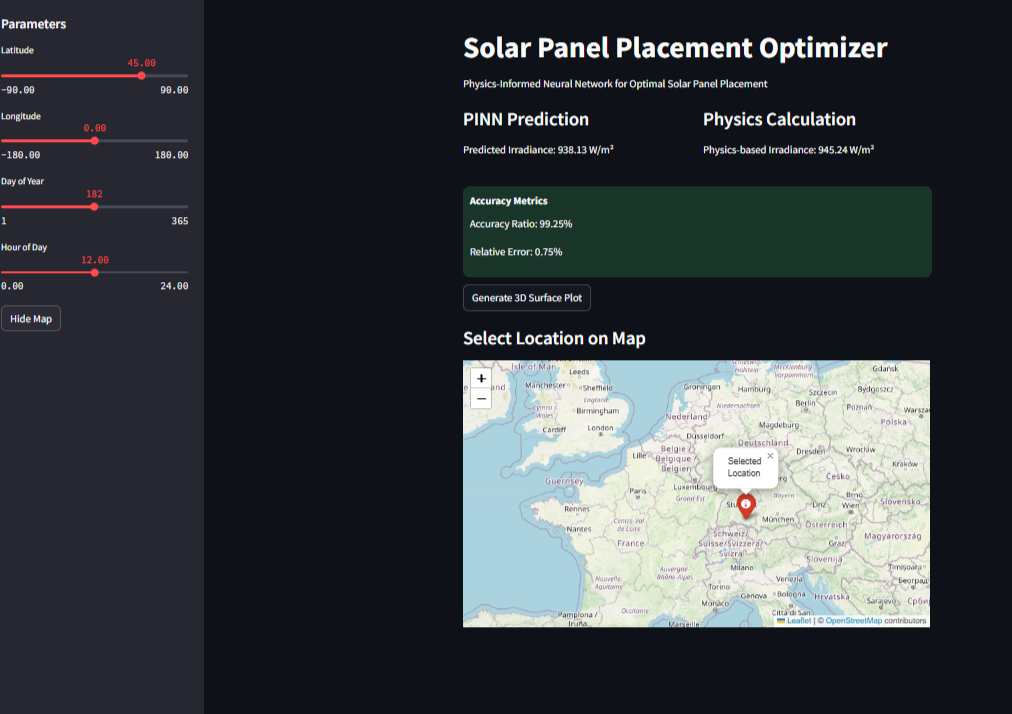
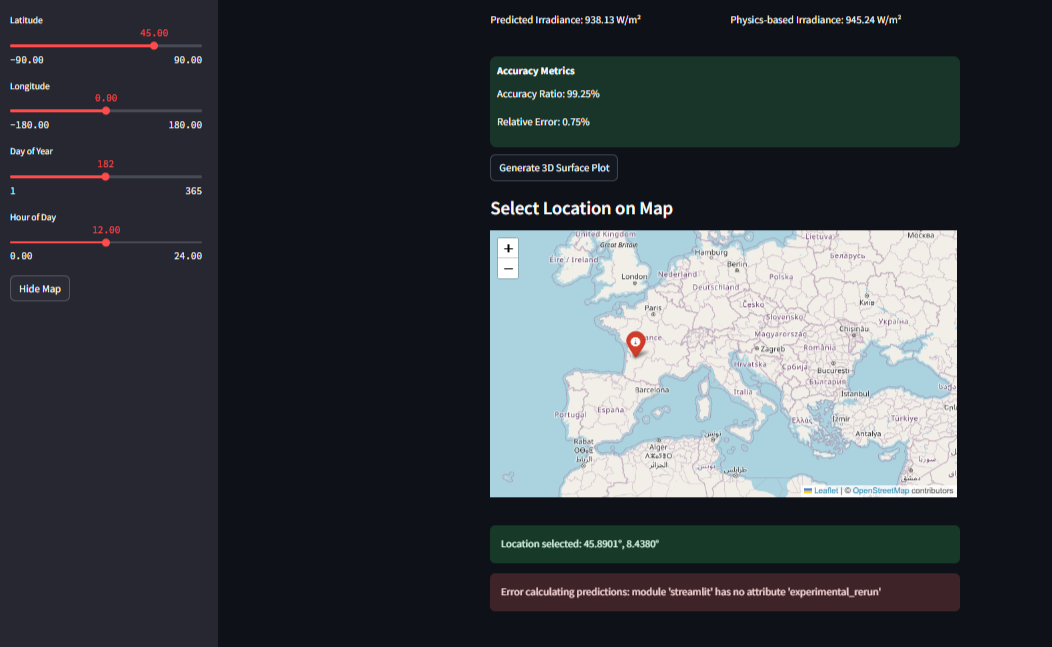
Agent query: Can you verify if: 1. The map location selection works correctly with st.rerun(), 2. The sliders update properly when a location is selected on the map, and 3. The synchronization between map and sliders is working smoothly?

diff --git a/main.py b/main.py
@@ -32,16 +32,22 @@ def main():
     st.sidebar.header("Parameters")
     
     # Location parameters
-    latitude = st.sidebar.slider("Latitude", -90.0, 90.0, 
-                               value=st.session_state.get('latitude', 45.0), 
-                               key='latitude_slider')
-    longitude = st.sidebar.slider("Longitude", -180.0, 180.0, 
-                                value=st.session_state.get('longitude', 0.0),
-                                key='longitude_slider')
+    latitude = st.sidebar.slider(
+        "Latitude", -90.0, 90.0,
+        value=float(st.session_state.get('latitude', 45.0)),
+        key='latitude_slider'
+    )
+    longitude = st.sidebar.slider(
+        "Longitude", -180.0, 180.0,
+        value=float(st.session_state.get('longitude', 0.0)),
+        key='longitude_slider'
+    )
     
     # Update session state when sliders change
-    st.session_state['latitude'] = latitude
-    st.session_state['longitude'] = longitude
+    if latitude != st.session_state.get('latitude'):
+        st.session_state['latitude'] = latitude
+    if longitude != st.session_state.get('longitude'):
+        st.session_state['longitude'] = longitude
     
     
     
@@ -173,10 +179,8 @@ def main():
             if map_data['last_clicked'] is not None:
                 st.session_state['latitude'] = map_data['last_clicked']['lat']
                 st.session_state['longitude'] = map_data['last_clicked']['lng']
-                # Add success message
                 st.success(f"Location selected: {st.session_state['latitude']:.4f}°, {st.session_state['longitude']:.4f}°")
-                # Force the sidebar sliders to update
-                st.experimental_rerun()
+                st.rerun()
                 
     except Exception as e:
         st.error(f"Error calculating predictions: {str(e)}")
